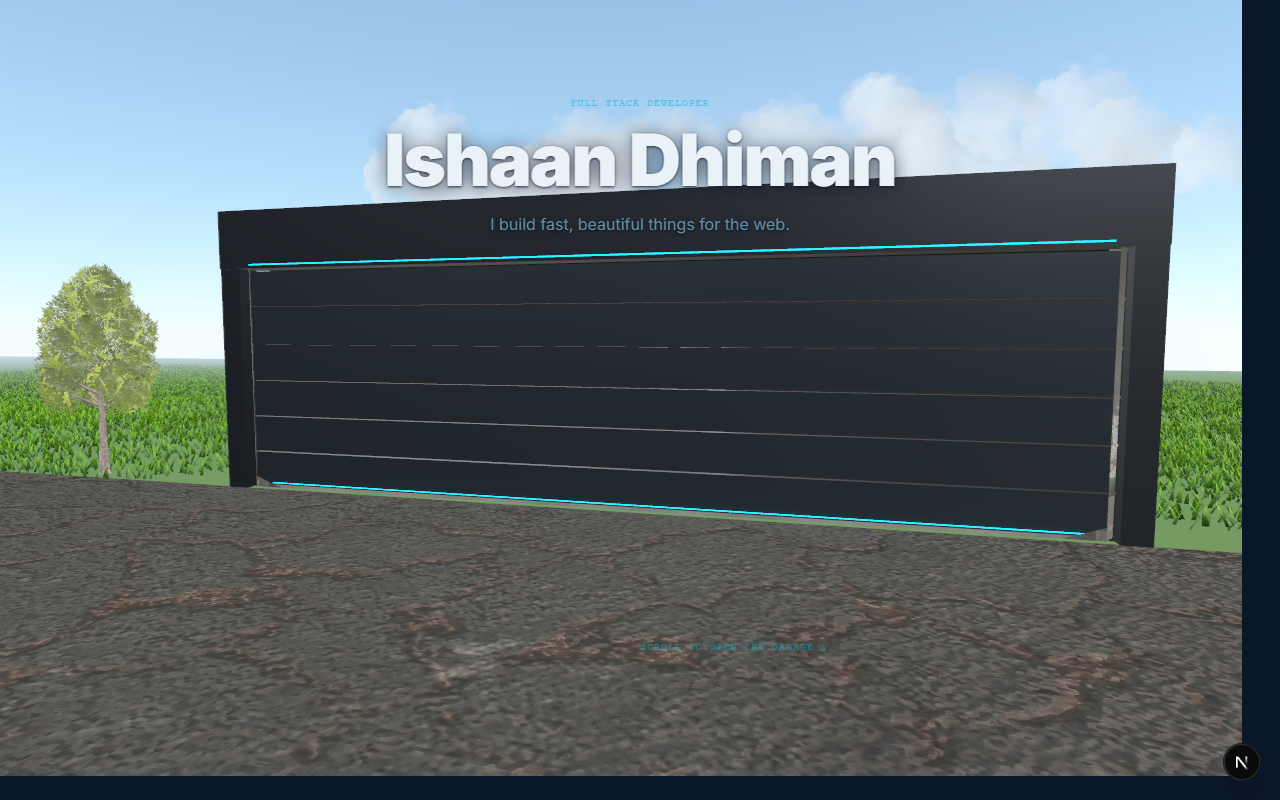
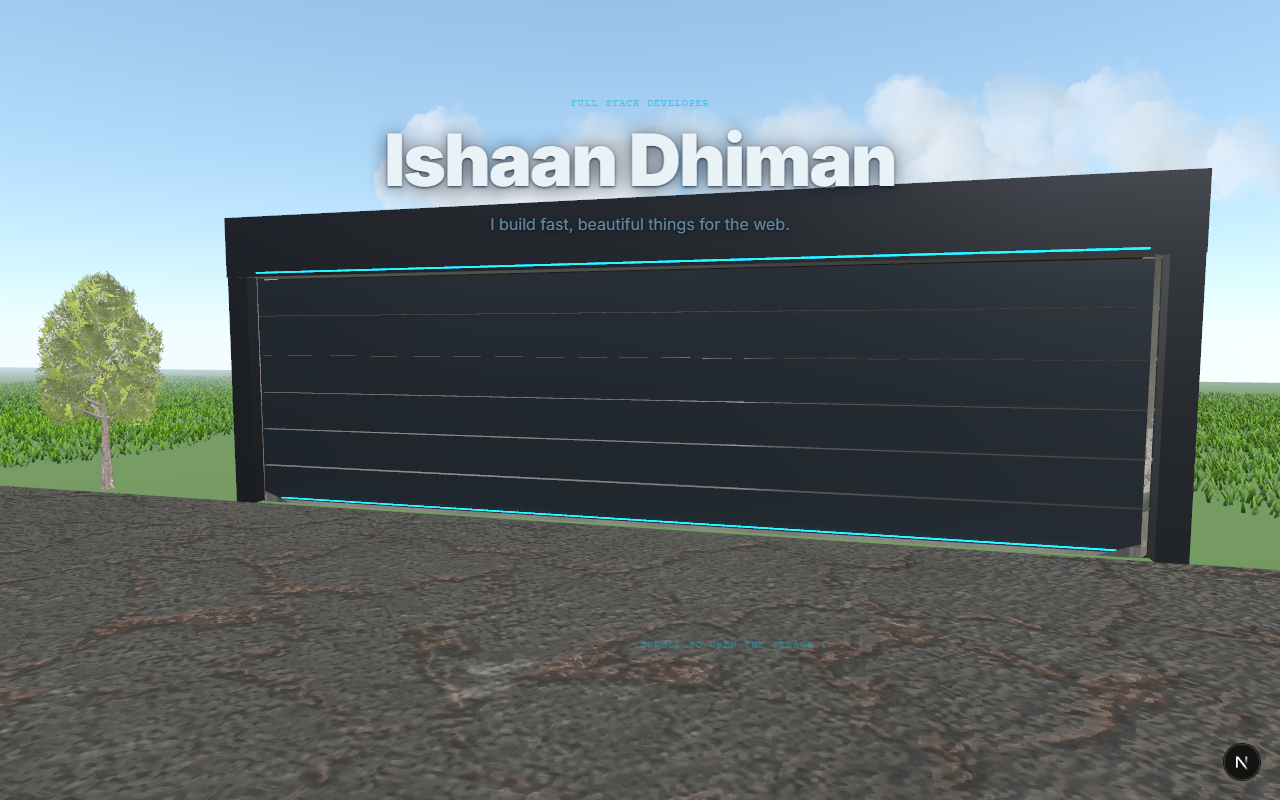
Add new smoke shot images for shoulder and verge positions
- Added shoulder-left.png for left shoulder smoke shot.
- Added verge-left.png for left verge smoke shot.
- Added verge-right.png for right verge smoke shot.

diff --git a/components/Garage.tsx b/components/Garage.tsx
@@ -294,17 +294,26 @@ const GRASS_GLB = '/patch_of_grass.glb';
 const TREES_GLB = '/trees_low_poly.glb';
 const LAWN_Y = FLOOR_Y - 0.06;
 
-// Field zones to blanket with tufts: [x0, x1, z0, z1]. Everything beside and
-// behind the garage plus the strips flanking the road — never the door
-// corridor, the garage footprint, or the road plot itself.
-const GRASS_ZONES: [number, number, number, number][] = [
-  [-36,  -7, -20, 5.5],   // left of the garage
-  [  7,  36, -20, 5.5],   // right of the garage
-  [ -5,   5, -20, -10],   // behind the garage
-  [-39, -27,   7,  48],   // left of the road
-  [ 27,  39,   7,  48],   // right of the road
+// Field zones to blanket with tufts: [x0, x1, z0, z1, step, sBase, sVar].
+// step = grid spacing, sBase/sVar = tuft footprint scale range. Big cheap
+// tufts fill the open fields; SMALL tufts (short blade reach → they pass the
+// garage-clearance test much closer in) fill the verges along the walls and
+// the road shoulders so no bald strips remain. Never the door corridor, the
+// garage footprint, or the road plot itself.
+const GRASS_ZONES: [number, number, number, number, number, number, number][] = [
+  // open fields
+  [-40,  -7, -20, 5.5, 4.4, 0.036, 0.0010],  // left of the garage
+  [  7,  40, -20, 5.5, 4.4, 0.036, 0.0010],  // right of the garage
+  [ -5,   5, -20, -10, 4.4, 0.036, 0.0010],  // behind the garage
+  [-42, -26,   7,  52, 4.4, 0.036, 0.0010],  // left of the road
+  [ 26,  42,   7,  52, 4.4, 0.036, 0.0010],  // right of the road
+  // verge fills — small tufts hugging the garage walls and road shoulders
+  [-9.5,  -6, -10, 5.5, 1.8, 0.016, 0.0006], // left wall verge
+  [   6,  9.5, -10, 5.5, 1.8, 0.016, 0.0006], // right wall verge
+  [-9.5,  9.5, -12, -9, 1.8, 0.016, 0.0006], // back verge
+  [-28, -25.5,   7, 52, 1.8, 0.016, 0.0006], // left road shoulder
+  [25.5,   28,   7, 52, 1.8, 0.016, 0.0006], // right road shoulder
 ];
-const GRASS_STEP = 4.4;   // tuft grid spacing (tufts are ~6.5 wide → overlap)
 // [kind, x, z, scale, yaw]
 const TREE_SPOTS: ['tree4' | 'tree6', number, number, number, number][] = [
   ['tree4', -8.5,  5.5, 0.0032, 0.4], ['tree6',  9.0,  5.0, 0.0040, 2.1],
@@ -323,7 +332,7 @@ function GrassField() {
     scene.updateMatrixWorld(true);
     const geos: THREE.BufferGeometry[] = [];
     let mat: THREE.MeshStandardMaterial | null = null;
-    // Optimization + shape: keep every 4th blade (~9k source meshes is far
+    // Optimization + shape: keep every 5th blade (~9k source meshes is far
     // denser than needed) and only blades inside an 85-unit disc of the plot
     // center — the merged tuft comes out round, so overlapping instances
     // tile into a continuous field with no straight seams.
@@ -335,7 +344,7 @@ function GrassField() {
       const m = mesh.material as THREE.MeshStandardMaterial;
       if (m.name !== 'grass') return; // skip the Soil base plate
       mat = m;
-      if (i++ % 4 !== 0) return;
+      if (i++ % 5 !== 0) return;
       const e = mesh.matrixWorld.elements;
       if (e[12] * e[12] + e[14] * e[14] > DISC_R2) return;
       geos.push(mesh.geometry.clone().applyMatrix4(mesh.matrixWorld));
@@ -362,21 +371,33 @@ function GrassField() {
   const field = useMemo(() => {
     if (!merged) return null;
     const spots: { x: number; z: number; ry: number; s: number; sy: number }[] = [];
+    // Garage shell (outer faces + margin): no tuft's blade disc may reach
+    // inside, or blades poke through the walls onto the showroom floor
+    const GX = 5.8, GZ0 = -8.5, GZ1 = 6.3;
     let n = 0;
-    for (const [x0, x1, z0, z1] of GRASS_ZONES) {
-      for (let x = x0; x <= x1; x += GRASS_STEP) {
-        for (let z = z0; z <= z1; z += GRASS_STEP) {
+    for (const [x0, x1, z0, z1, step, sBase, sVar] of GRASS_ZONES) {
+      const jit = step * 0.55; // jitter proportional to grid spacing
+      for (let x = x0; x <= x1; x += step) {
+        for (let z = z0; z <= z1; z += step) {
           // Deterministic jitter/variation from the index (no Math.random —
           // layout must be identical every mount)
           const h = (n * 2654435761) % 1000;
-          spots.push({
-            x: x + ((h % 30) / 30 - 0.5) * 2.4,
-            z: z + (((h >> 3) % 30) / 30 - 0.5) * 2.4,
-            ry: (h % 63) / 10,
-            s: 0.036 + (h % 11) * 0.001,   // footprint ~6.1..7.9 wide
-            sy: 0.011 + (h % 7) * 0.001,   // blades ~0.14..0.21 tall
-          });
           n++;
+          const sp = {
+            x: x + ((h % 30) / 30 - 0.5) * jit,
+            z: z + (((h >> 3) % 30) / 30 - 0.5) * jit,
+            ry: (h % 63) / 10,
+            s: sBase + (h % 11) * sVar,
+            sy: 0.011 + (h % 7) * 0.001,   // blades ~0.14..0.21 tall
+          };
+          // Blades live inside an 85-unit disc of the tuft origin — reject
+          // any placement whose disc overlaps the garage box
+          const reach = 85 * sp.s + 0.5;
+          if (
+            sp.x + reach > -GX && sp.x - reach < GX &&
+            sp.z + reach > GZ0 && sp.z - reach < GZ1
+          ) continue;
+          spots.push(sp);
         }
       }
     }

diff --git a/components/CarModel.tsx b/components/CarModel.tsx
@@ -218,14 +218,15 @@ export default function CarModel({ pRef }: { pRef: React.MutableRefObject<number
 
   return (
     <div style={{ position: 'relative', width: '100%', height: '100%' }}>
-      {/* Canvas fades/scales in over 0.6s once the models have streamed in */}
+      {/* Canvas fades in over 0.6s once the models have streamed in.
+          Opacity only — a scale-up would leave page-background bands
+          around the canvas edges while it animates. */}
       <div
         style={{
           width: '100%',
           height: '100%',
           opacity: ready ? 1 : 0,
-          transform: ready ? 'scale(1)' : 'scale(0.97)',
-          transition: 'opacity 0.6s ease, transform 0.6s ease',
+          transition: 'opacity 0.6s ease',
         }}
       >
         <Canvas

diff --git a/app/globals.css b/app/globals.css
@@ -72,6 +72,14 @@
 
 html {
   scroll-behavior: smooth;
+  /* The 3D timeline is the whole page: kill sideways overflow (stray
+     overlay chips could otherwise summon a horizontal scrollbar) and hide
+     the scrollbar UI — wheel/touch/keys still scroll the timeline. */
+  overflow-x: hidden;
+  scrollbar-width: none;
+}
+html::-webkit-scrollbar {
+  display: none;
 }
 
 /* Prevent scrolling on specific pages */

diff --git a/CLAUDE.md b/CLAUDE.md
@@ -3,16 +3,16 @@
 
 _Genouk keeps this section in sync from past Genouk chat digests — don't edit it by hand._
 
-**Last session:** [Image #1] Fix this lamborigin thing to be clear and make it so that… (2026-07-01, 9:43:38 p.m.)
+**Last session:** [Image #1] Fix this lamborigin thing to be clear and make it so that… (2026-07-01, 10:33:45 p.m.)
 
 **✅ No open threads carried over** — past sessions closed cleanly.
 
 ### Recent sessions (3)
 
 #### [Image #1] Fix this lamborigin thing to be clear and make it so that…
-_2026-07-01, 9:43:38 p.m._
+_2026-07-01, 10:33:45 p.m._
 
-Chat covering 16 user requests. • [Image #1] Fix this lamborigin thing to be clear and make it so that the car is inside of an garage and that and instead of the gearshift have the car insie of the garage and you scroll to open the g… • [Image: source: C:\Users\Ishaan Dhiman\.claude\image-cache\47528818-548b-46b0-b4d5-bb0c0d61ea05\1.png] • have the sky as the background like sunshine and clouds and the each car on the edges so that i can have each section of my website a differnet car • [Image #2] [Image #3] [Image #4] remove these stupid side panels and make the cars face perpendicular to the wall and each car is a different section on the website
+Chat covering 20 user requests. • [Image #1] Fix this lamborigin thing to be clear and make it so that the car is inside of an garage and that and instead of the gearshift have the car insie of the garage and you scroll to open the g… • [Image: source: C:\Users\Ishaan Dhiman\.claude\image-cache\47528818-548b-46b0-b4d5-bb0c0d61ea05\1.png] • have the sky as the background like sunshine and clouds and the each car on the edges so that i can have each section of my website a differnet car • [Image #2] [Image #3] [Image #4] remove these stupid side panels and make the cars face perpendicular to the wall and each car is a different section on the website
 
 **Files touched:**
 - \scripts\inspect-garage.mjs
@@ -33,6 +33,7 @@ Chat covering 16 user requests. • [Image #1] Fix this lamborigin thing to be c
 - \scripts\roadshot.mjs
 - \app\layout.tsx
 - \scripts\probe-road-slope.mjs
+- \app\globals.css
 
 #### check bugs and fix them
 _2026-06-18, 5:45:07 p.m._
